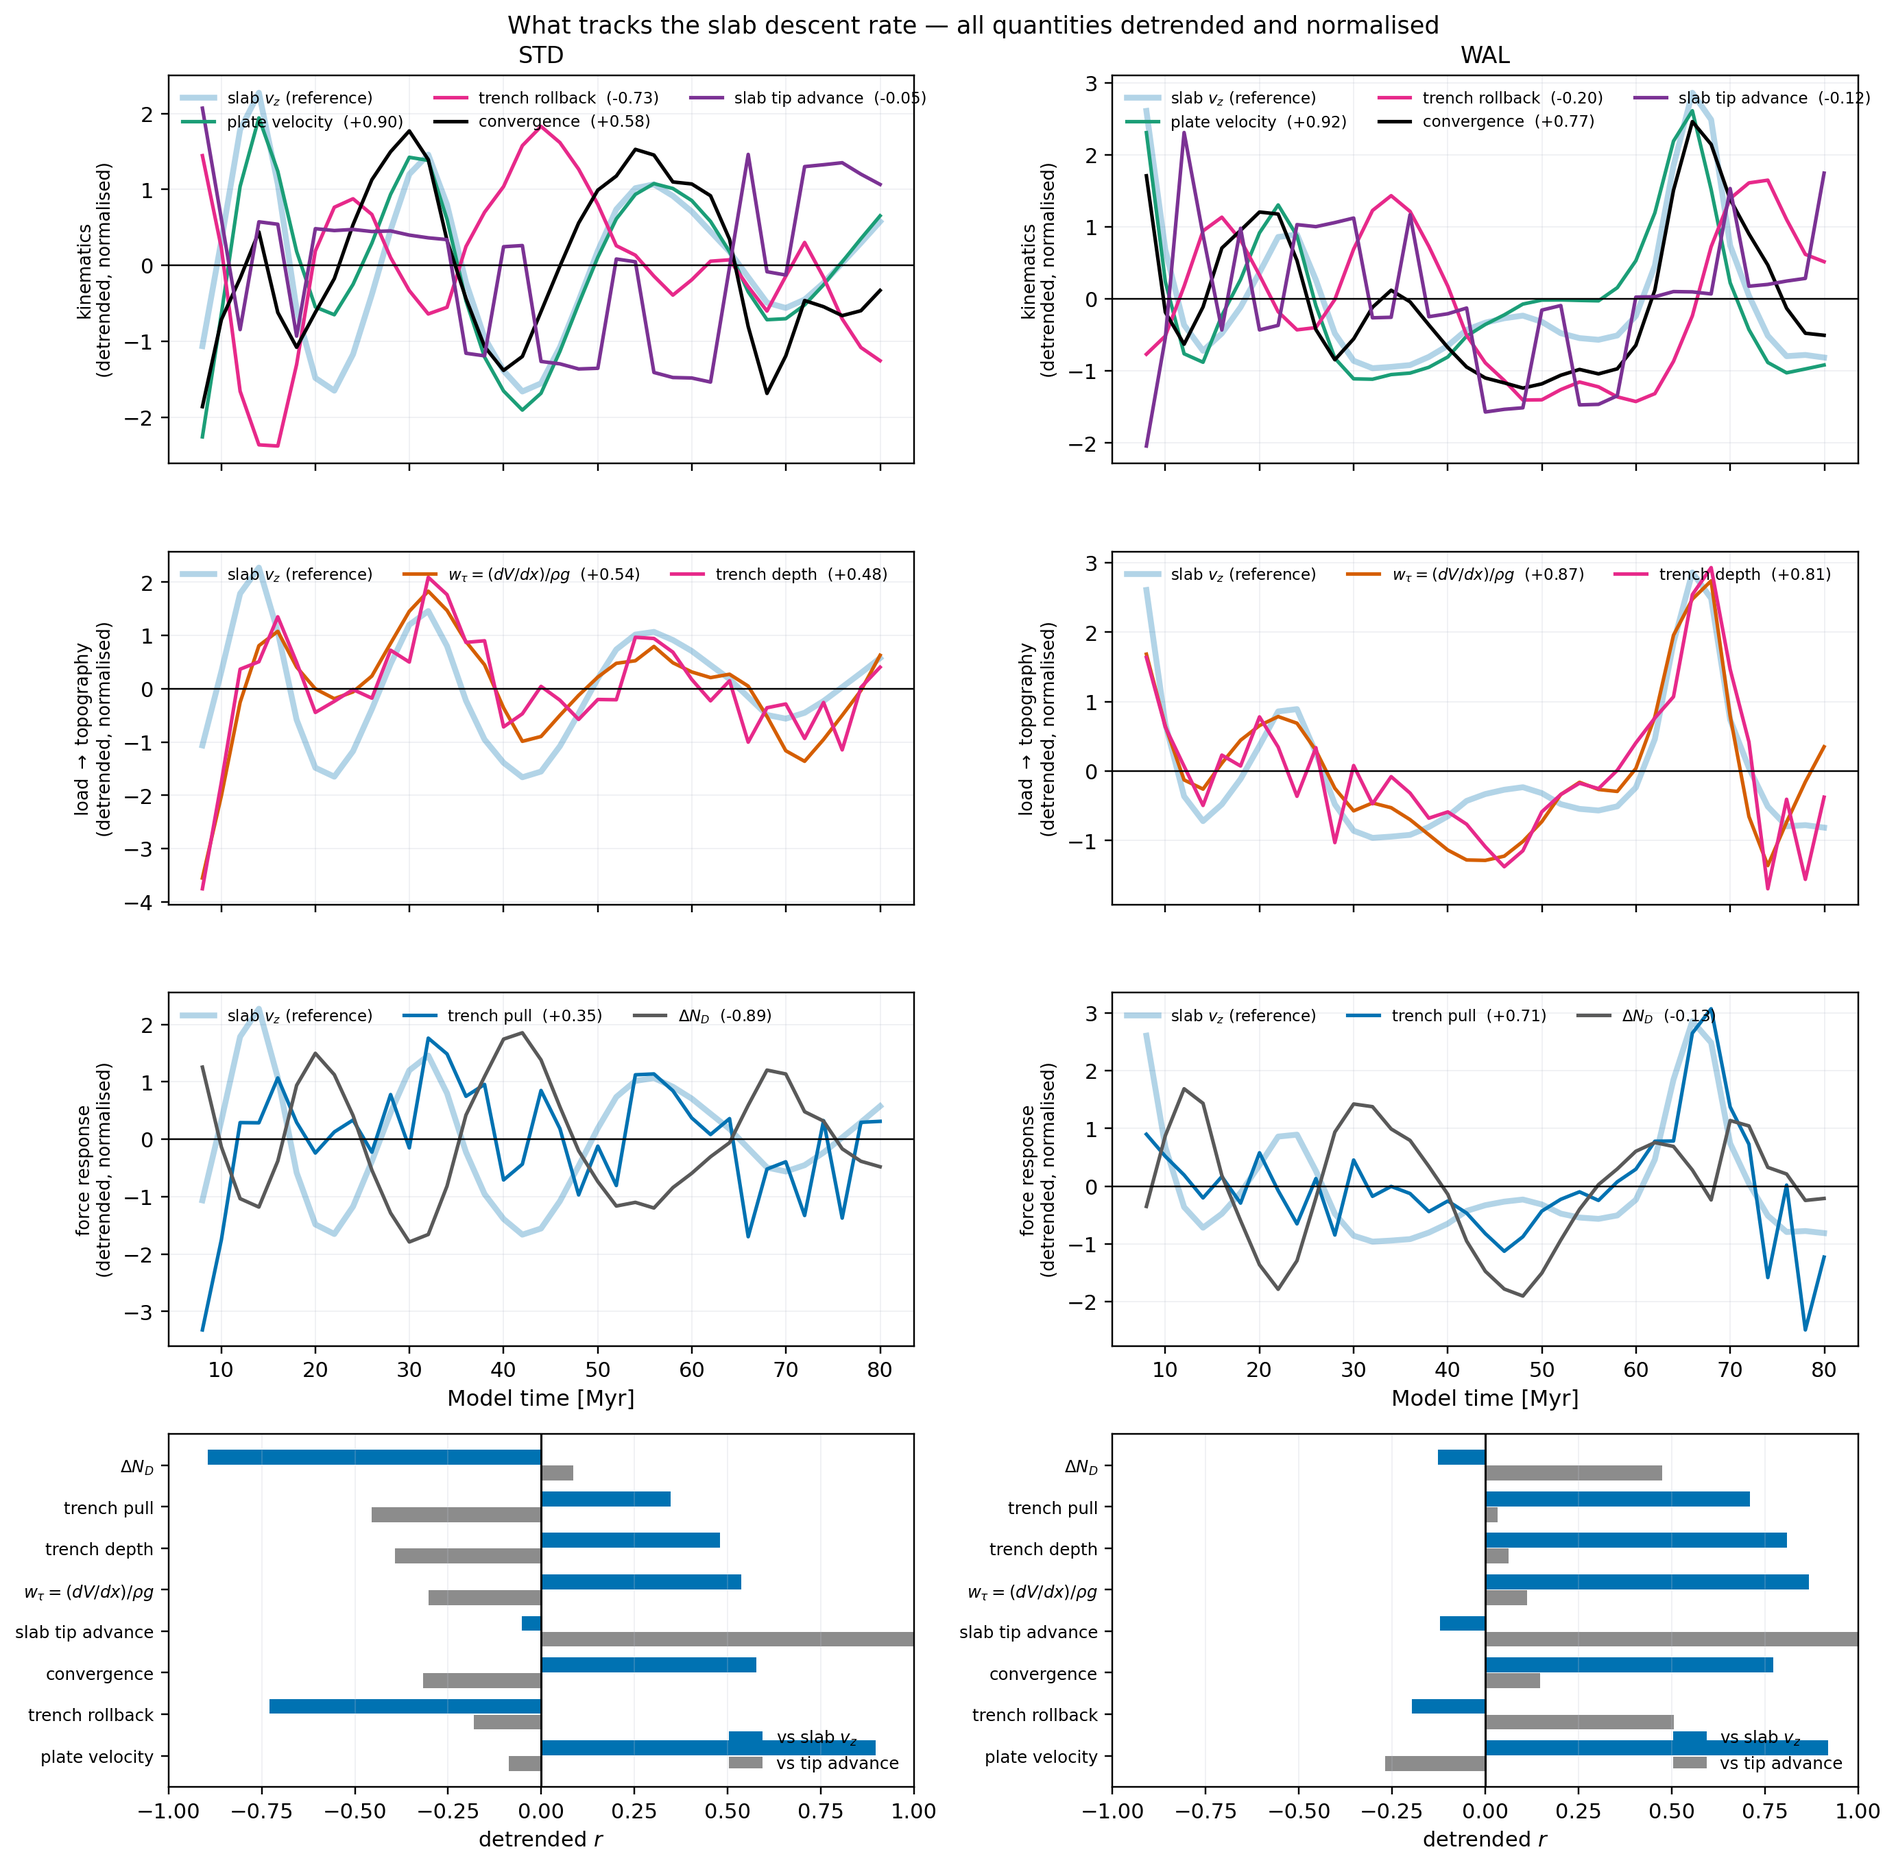
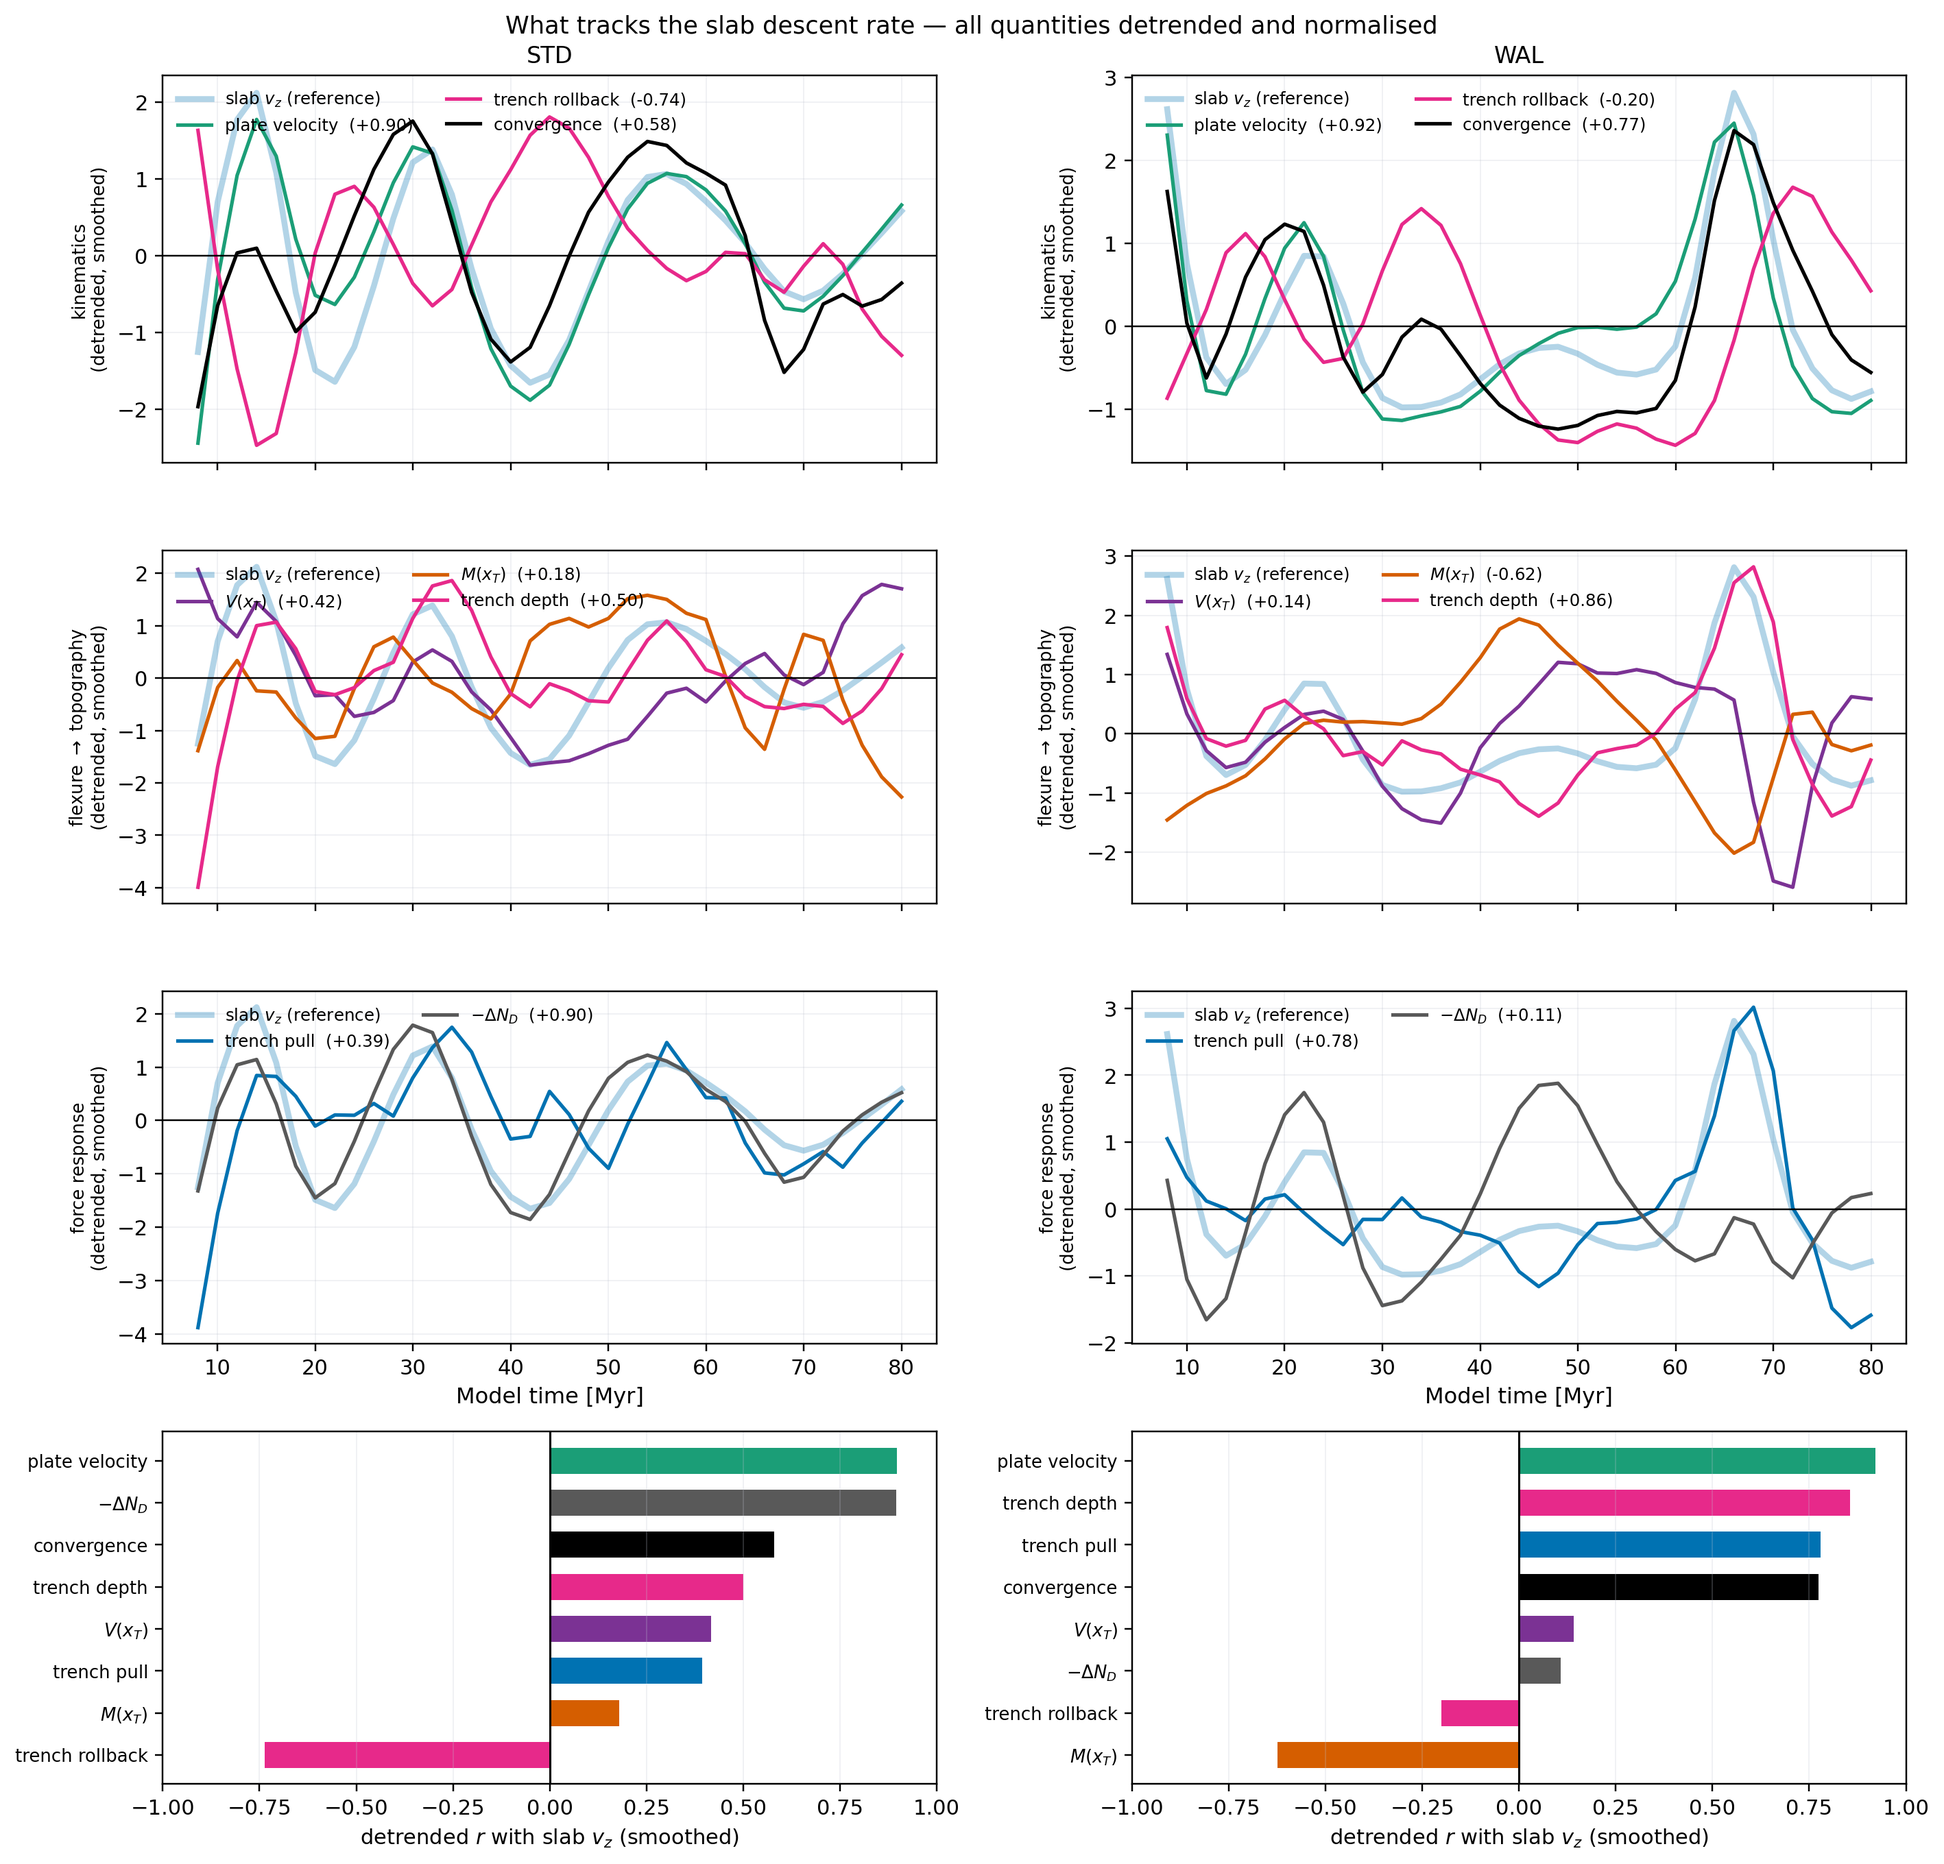
fig_slab_correlations: V and M back, sign of dN_D swapped, light filter
Dan's corrections, 2026-09-22.

V WAS NOT THE WRONG VARIABLE and I should not have said so. r(depth, V)
= -0.12 is a measurement, but it makes V INSUFFICIENT ALONE, not wrong:
the flexure description needs V and M together, which is what row 2 now
shows. Row 2 is V(x_T), M(x_T) and trench depth against the slab
descent rate. The dV/dx observation stands on its own but it is not a
reason to drop V.

Slab tip advance removed, and with it the paired-bar comparison.

SIGN. Dan: a bar chart that is mostly anti-correlations usually means the
wrong things are being plotted. Delta N_D is now plotted as -Delta N_D,
which matches fig_slab_trench_coupling -- the two figures previously
disagreed on this, giving -0.89 in one and +0.89 in the other for the
same relationship. V is plotted as extracted rather than as -V, so it too
comes out positive. Only two bars are now negative and both are
physical: trench rollback (it trades off against plate motion) and M in
WAL.

LIGHT ZERO-PHASE SMOOTHING (5-point Savitzky-Golay) for display, since
trench pull was noisy enough to hide its own signal. Symmetric, so no lag
is injected. It does raise correlations by removing noise -- trench pull
+0.35 -> +0.39 (STD) and +0.71 -> +0.78 (WAL) -- so the table carries
both the smoothed and the raw value for every quantity.

    STD  plate velocity +0.90, -dN_D +0.90, convergence +0.58,
         trench depth +0.50, V +0.42, trench pull +0.39, M +0.18,
         rollback -0.74
[…]

diff --git a/scripts/kinematics/fig_slab_correlations.py b/scripts/kinematics/fig_slab_correlations.py
@@ -62,6 +62,7 @@ import numpy as np
 import matplotlib
 matplotlib.use('Agg')
 import matplotlib.pyplot as plt
+from scipy.signal import savgol_filter
 
 _HERE = os.path.dirname(os.path.abspath(__file__))
 sys.path.insert(0, os.path.dirname(_HERE))          # the shared scripts/ dir
@@ -75,9 +76,9 @@ ROOT = os.path.dirname(os.path.dirname(_HERE))
 RHO_G = 3300.0 * 9.8
 C_SLAB = '#0072B2'
 C = {'plate velocity': '#1B9E77', 'convergence': 'k',
-     'trench rollback': '#E7298A', 'slab tip advance': '#7B3294',
-     '$w_\\tau=(dV/dx)/\\rho g$': '#D55E00', 'trench depth': '#E7298A',
-     'trench pull': '#0072B2', '$\\Delta N_D$': '0.35'}
+     'trench rollback': '#E7298A', '$V(x_T)$': '#7B3294',
+     '$M(x_T)$': '#D55E00', 'trench depth': '#E7298A',
+     'trench pull': '#0072B2', '$-\\Delta N_D$': '0.35'}
 
 
 def main():
@@ -109,34 +110,42 @@ def main():
         mM = r['m_T'][:n] / 1e17               # bending moment
         ND = q['d_nd'][:n] / 1e12
 
-        tip = np.gradient(s[f'{key}_z_tip'][:n], tt) / 10.0     # cm/yr
         roll = (np.gradient(d[f'{key}_xT'] / 1e3, t) / 10.0)[:n]
-        dVdx = np.trapezoid(d[f'{key}_dtxz_T'][:n][:, zc], z[zc], axis=1)
-        w_tau = dVdx / RHO_G                       # shear-supported depth, m
+        Vt = r['v_T'][:n] / 1e12               # V as extracted (see docstring)
+        Mt = r['m_T'][:n] / 1e17               # bending moment at the trench
         TP = -np.trapezoid(c['p_T'][:n, zc], z[zc], axis=1) / 1e12
 
-        a_vz, a_tip = ld(tt, vz), ld(tt, tip)
+        # LIGHT ZERO-PHASE SMOOTHING for display (Dan, 2026-09-22): trench
+        # pull in particular is noisy enough to hide its own signal. A
+        # 5-point Savitzky-Golay is symmetric, so it injects no lag. It
+        # DOES raise correlations by removing noise, so the table carries
+        # both the smoothed and the raw value.
+        sm = lambda y: savgol_filter(y, 5, 2)
+        a_vz = sm(ld(tt, vz))
+        raw = {}
+
         grp = [
             ('kinematics', [('plate velocity', ld(tt, vp)),
                             ('trench rollback', ld(tt, roll)),
-                            ('convergence', ld(tt, conv)),
-                            ('slab tip advance', a_tip)]),
-            ('load $\\rightarrow$ topography',
-             [('$w_\\tau=(dV/dx)/\\rho g$', ld(tt, w_tau)),
+                            ('convergence', ld(tt, conv))]),
+            ('flexure $\\rightarrow$ topography',
+             [('$V(x_T)$', ld(tt, Vt)), ('$M(x_T)$', ld(tt, Mt)),
               ('trench depth', ld(tt, wT))]),
             ('force response', [('trench pull', ld(tt, TP)),
-                                ('$\\Delta N_D$', ld(tt, ND))]),
+                                ('$-\\Delta N_D$', ld(tt, -ND))]),
         ]
         for ax, (lab, items) in zip(axes[:3, col], grp):
             ax.plot(tt, zs(a_vz), '-', color=C_SLAB, lw=2.8, alpha=0.30,
                     label='slab $v_z$ (reference)')
             for nm, y in items:
-                rr = float(np.corrcoef(a_vz, y)[0, 1])
-                ax.plot(tt, zs(y), '-', color=C[nm], lw=1.7,
+                ys = sm(y)
+                rr = float(np.corrcoef(a_vz, ys)[0, 1])
+                raw[nm] = (rr, float(np.corrcoef(ld(tt, vz), y)[0, 1]))
+                ax.plot(tt, zs(ys), '-', color=C[nm], lw=1.7,
                         label=f'{nm}  ({rr:+.2f})')
             ax.axhline(0, color='k', lw=0.8)
-            ax.set_ylabel(f'{lab}\n(detrended, normalised)', fontsize=8.5)
-            ax.legend(frameon=False, fontsize=7.5, loc='upper left', ncol=3)
+            ax.set_ylabel(f'{lab}\n(detrended, smoothed)', fontsize=8.5)
+            ax.legend(frameon=False, fontsize=8, loc='upper left', ncol=2)
             ax.grid(alpha=0.25, color='#BFC3D1', lw=0.6)
         axes[0, col].set_title(key, fontsize=11)
         for ax in axes[:2, col]:
@@ -144,27 +153,24 @@ def main():
         axes[2, col].set_xlim(axes[0, col].get_xlim())
         axes[2, col].set_xlabel('Model time [Myr]', fontsize=10.5)
 
-        allq = [it for _, items in grp for it in items]
-        names = [nm for nm, _ in allq]
-        r_vz = [float(np.corrcoef(a_vz, y)[0, 1]) for _, y in allq]
-        r_tip = [float(np.corrcoef(a_tip, y)[0, 1]) for _, y in allq]
+        names = [nm for _, items in grp for nm, _ in items]
+        vals = [raw[nm][0] for nm in names]
         a3 = axes[3, col]
-        yy = np.arange(len(names))
-        a3.barh(yy + 0.19, r_vz, height=0.36, color=C_SLAB, label='vs slab $v_z$')
-        a3.barh(yy - 0.19, r_tip, height=0.36, color='0.55',
-                label='vs tip advance')
-        a3.set_yticks(yy); a3.set_yticklabels(names, fontsize=8)
+        order = np.argsort(vals)
+        a3.barh([names[i] for i in order], [vals[i] for i in order],
+                color=[C[names[i]] for i in order], height=0.62)
         a3.axvline(0, color='k', lw=1.0); a3.set_xlim(-1, 1)
-        a3.set_xlabel('detrended $r$', fontsize=10)
-        a3.legend(frameon=False, fontsize=8, loc='lower right')
+        a3.set_xlabel('detrended $r$ with slab $v_z$ (smoothed)', fontsize=10)
+        a3.tick_params(axis='y', labelsize=8.5)
         a3.grid(alpha=0.25, color='#BFC3D1', lw=0.6, axis='x')
 
-        print(f'{key}: ' + ', '.join(f'{nm} {v:+.2f}' for nm, v in zip(names, r_vz)))
-        for nm, v1, v2 in zip(names, r_vz, r_tip):
+        print(f'{key}: ' + ', '.join(f'{nm} {raw[nm][0]:+.2f}'
+                                     f'({raw[nm][1]:+.2f} raw)' for nm in names))
+        for nm in names:
             slug = ''.join(ch for ch in nm.lower().replace(' ', '_')
                            if ch.isalnum() or ch == '_')
-            rows += [(key, f'corr_slabvz_{slug}', f'{v1:.3f}'),
-                     (key, f'corr_tiprate_{slug}', f'{v2:.3f}')]
+            rows += [(key, f'corr_slabvz_{slug}_smoothed', f'{raw[nm][0]:.3f}'),
+                     (key, f'corr_slabvz_{slug}_raw', f'{raw[nm][1]:.3f}')]
 
     fig.suptitle('What tracks the slab descent rate — all quantities detrended '
                  'and normalised', fontsize=11.5)
